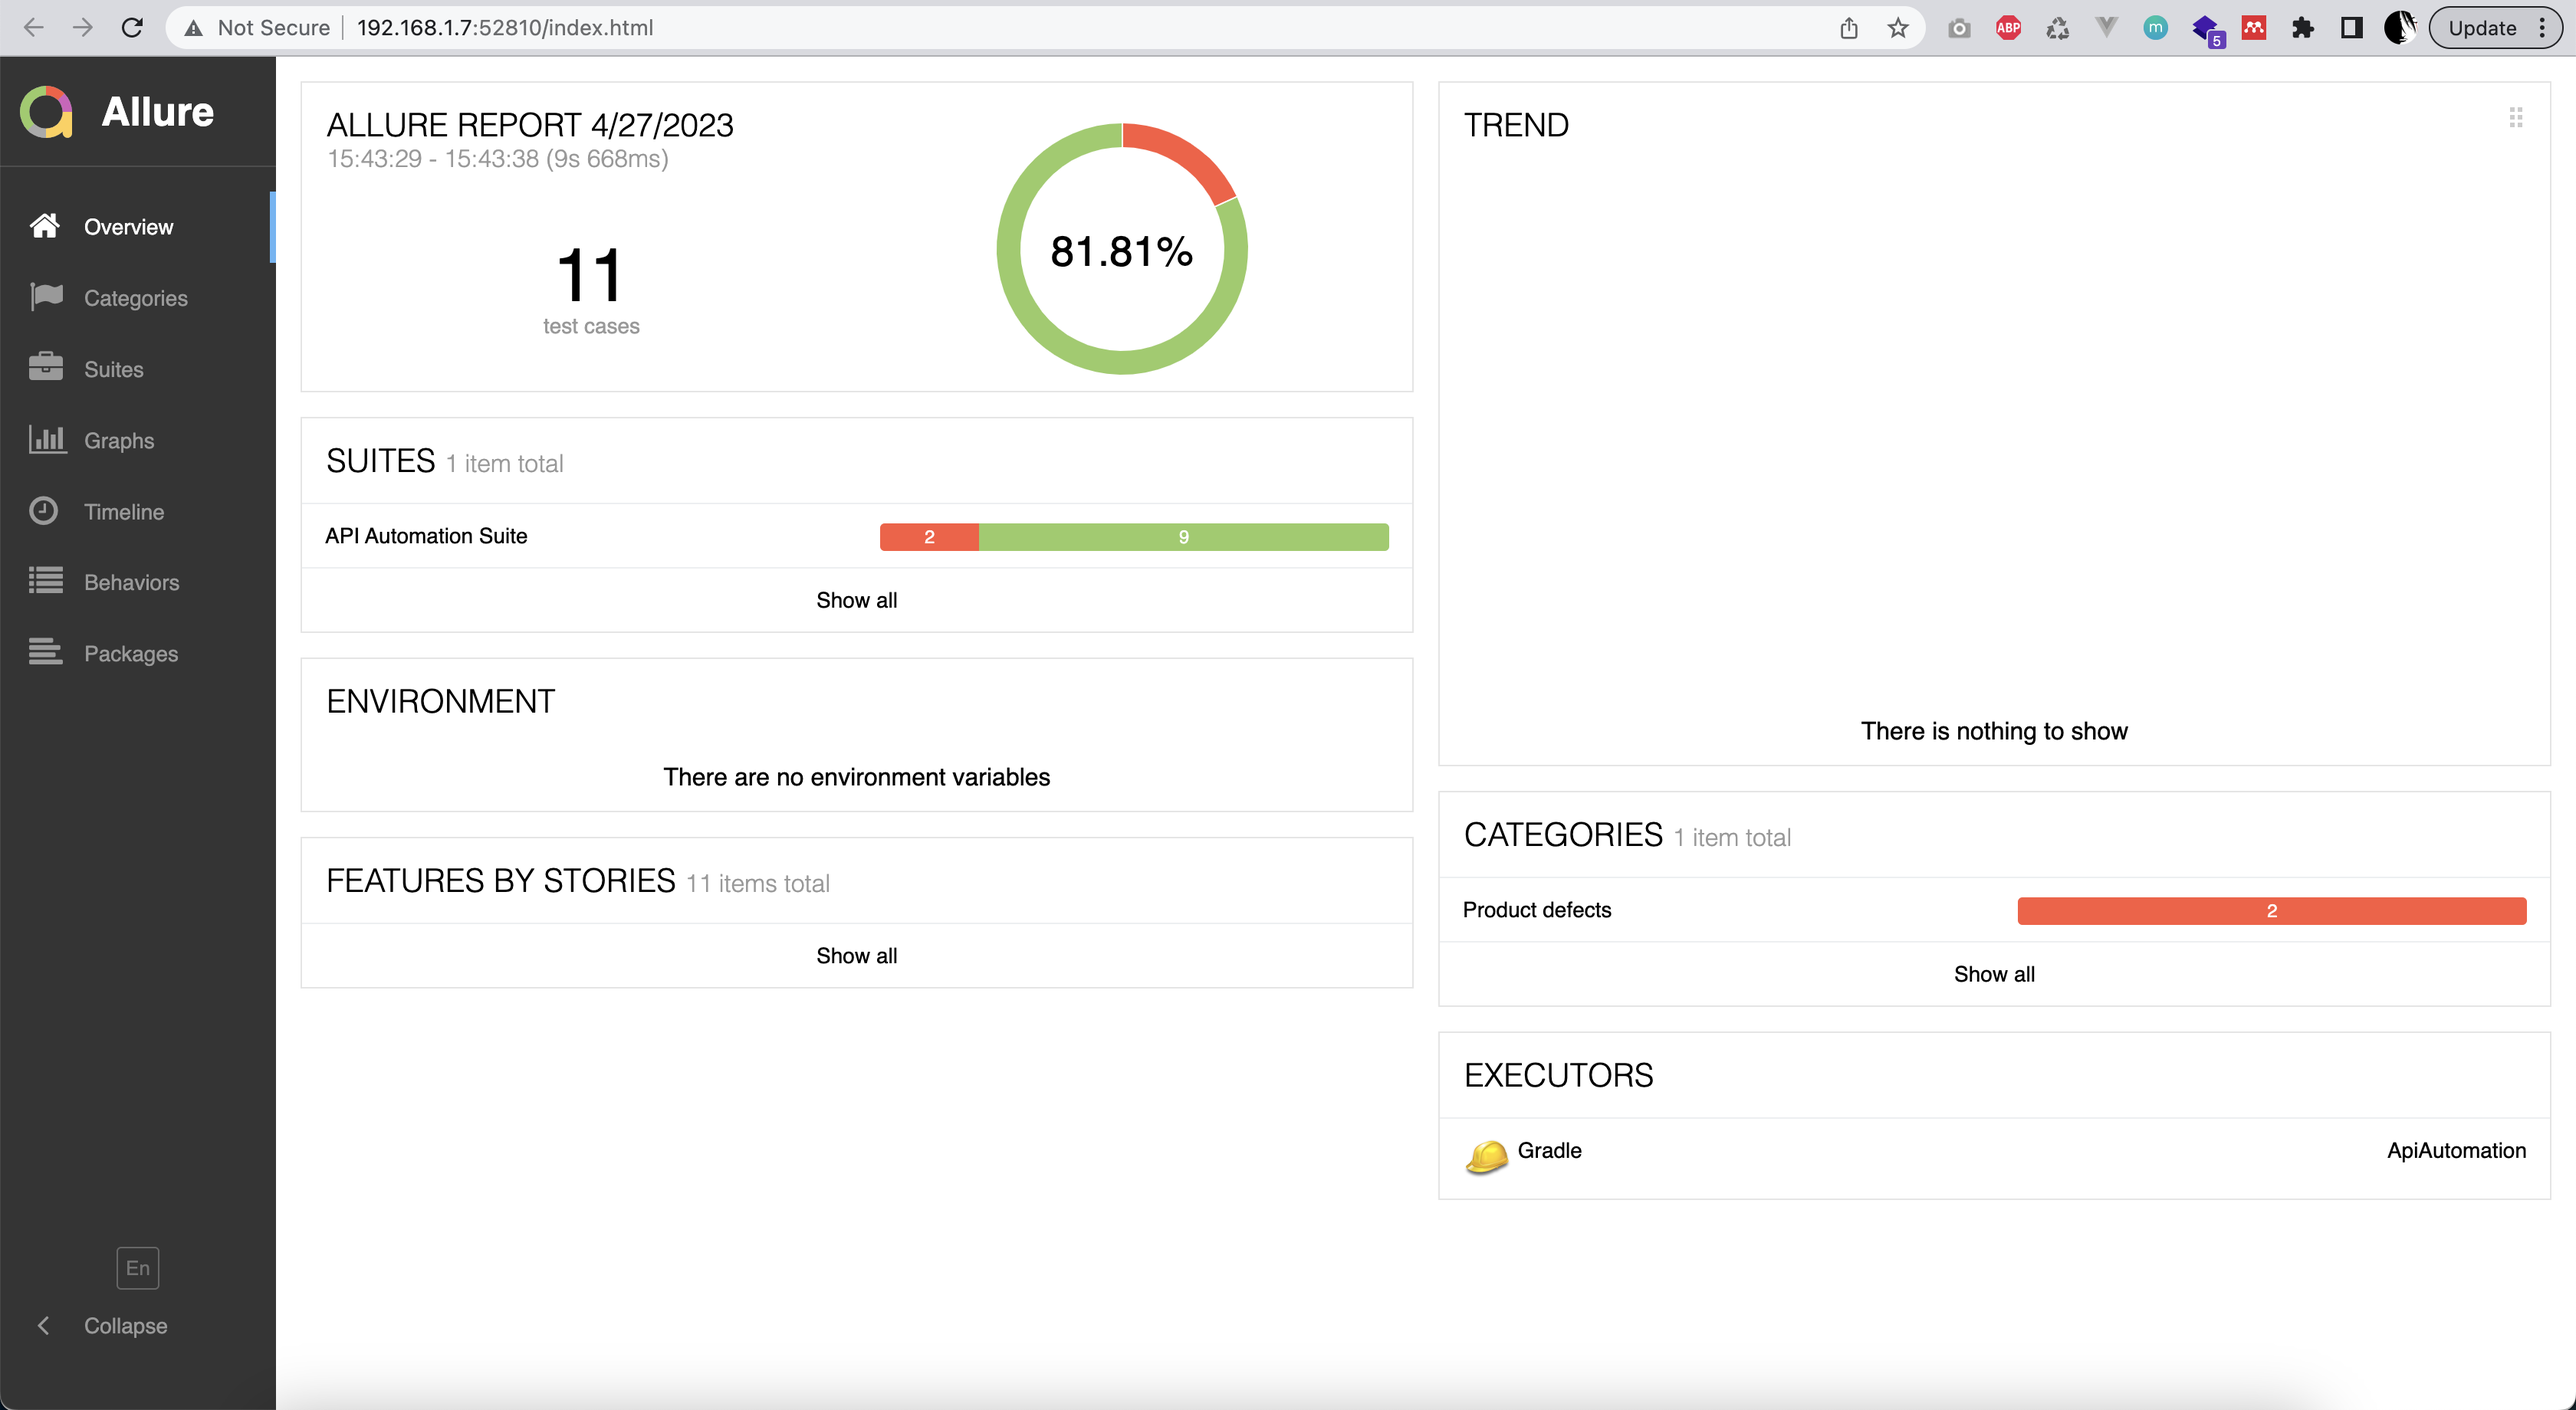
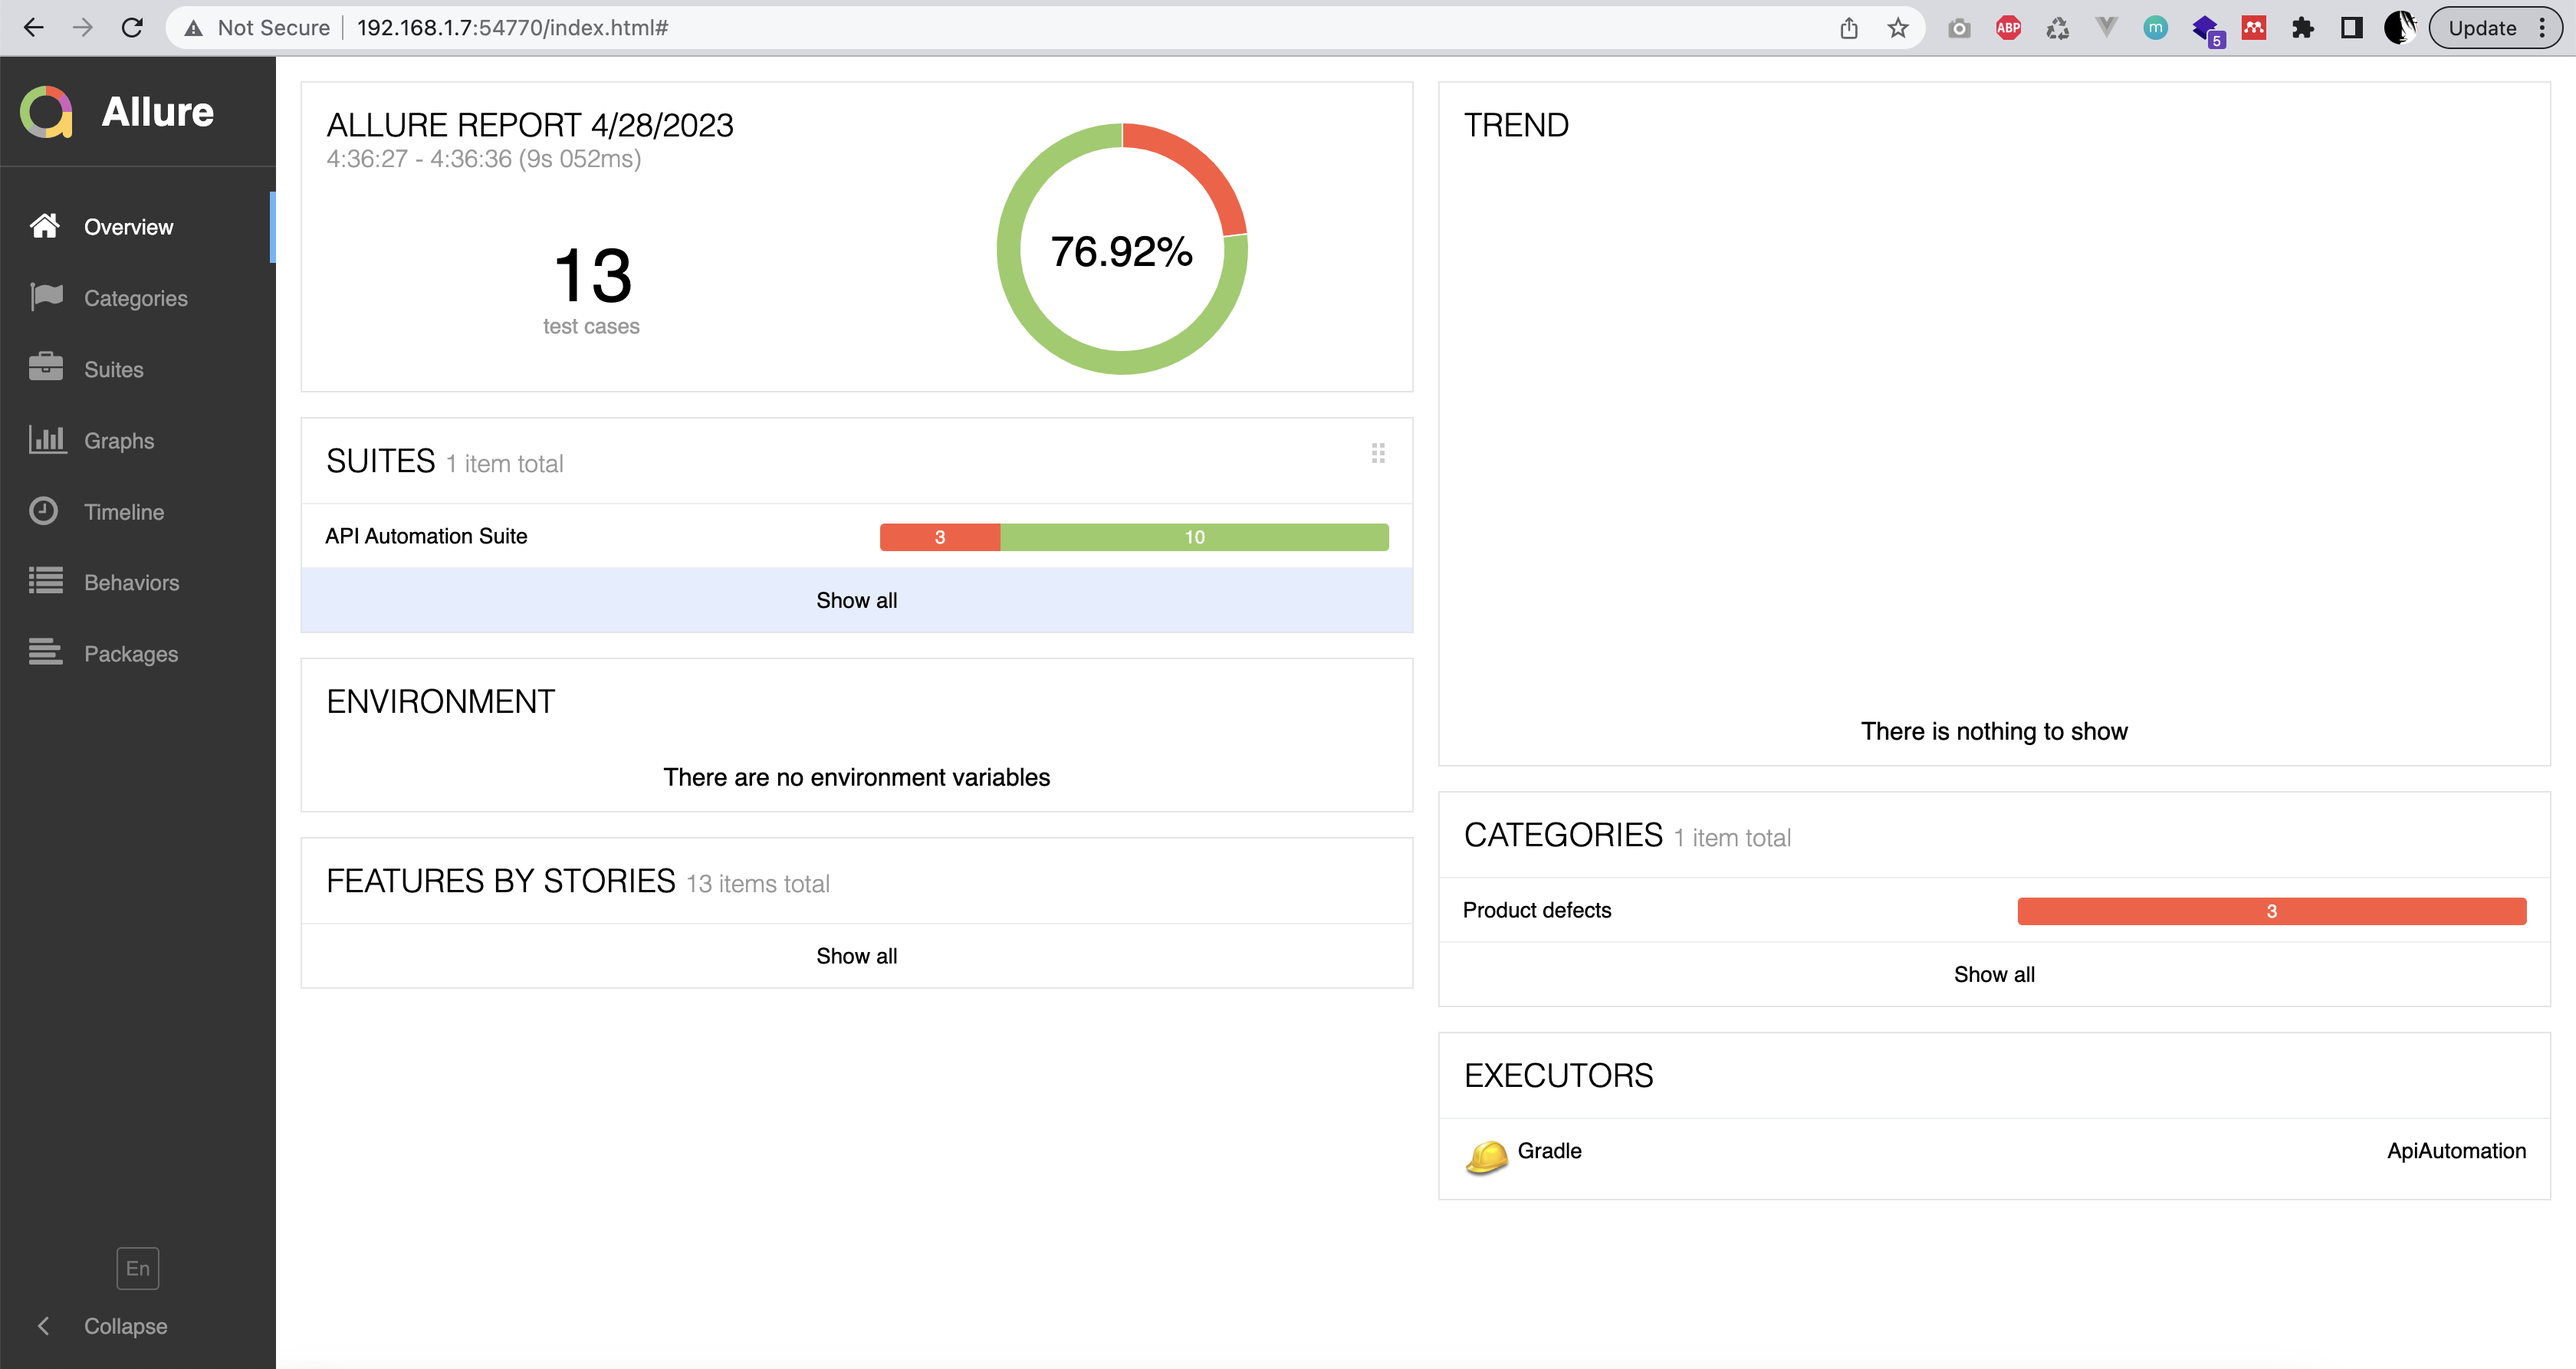
optimized code

diff --git a/src/test/java/apiauto/APITest.java b/src/test/java/apiauto/APITest.java
@@ -12,12 +12,40 @@ import java.io.File;
 import static io.restassured.RestAssured.given;
 
 public class APITest {
+    String userId;
     @BeforeClass
     public void setup() {
         TestUtilities.setBaseURI( "https://reqres.in/api/");
     }
 
-    @Test
+    @Test(priority = 1)
+    public void createNewUserTest() {
+        File createNewUserSchema = TestUtilities.getJsonSchemaFile("createNewUserSchema.json");
+
+        String name = "Muhammad Fajar B";
+        String job = "QA Engineer";
+        JSONObject jsonObject = new JSONObject();
+        jsonObject.put("name", name);
+        jsonObject.put("job", job);
+
+        String response = given()
+                .header("Content-Type", "application/json")
+                .header("Accept", "application/json")
+                .body(jsonObject.toString())
+                .when()
+                .post("users")
+                .then().log().all()
+                .assertThat().statusCode(201)
+                .assertThat().body("name", Matchers.equalTo(name))
+                .assertThat().body("job", Matchers.equalTo(job))
+                .assertThat().body(JsonSchemaValidator.matchesJsonSchema(createNewUserSchema))
+                .extract().asString();
+
+        JSONObject jsonResponse = new JSONObject(response);
+        userId = jsonResponse.getString("id");
+    }
+
+    @Test(priority = 2)
     public void getListUsersTest() {
         File usersSchema = TestUtilities.getJsonSchemaFile("getListUsersSchema.json");
 
@@ -33,9 +61,8 @@ public class APITest {
                 .assertThat().body(JsonSchemaValidator.matchesJsonSchema(usersSchema));
     }
 
-    @Test
+    @Test(priority = 3, dependsOnMethods = "createNewUserTest")
     public void getSingleUserTest() {
-        int userId = 2;
         File singleUserSchema = TestUtilities.getJsonSchemaFile("getSingleUserSchema.json");
         given()
                 .header("Accept", "application/json")
@@ -57,43 +84,16 @@ public class APITest {
                 .assertThat().body(JsonSchemaValidator.matchesJsonSchema(singleUserSchema));
     }
 
-    @Test
-    public void createNewUserTest() {
-        File createNewUserSchema = TestUtilities.getJsonSchemaFile("createNewUserSchema.json");
-
-        String name = "Muhammad Fajar B";
-        String job = "QA Engineer";
-        JSONObject jsonObject = new JSONObject();
-        jsonObject.put("name", name);
-        jsonObject.put("job", job);
-
-        given()
-                .header("Content-Type", "application/json")
-                .header("Accept", "application/json")
-                .body(jsonObject.toString())
-                .when()
-                .post("users")
-                .then().log().all()
-                .assertThat().statusCode(201)
-                .assertThat().body("name", Matchers.equalTo(name))
-                .assertThat().body("job", Matchers.equalTo(job))
-                .assertThat().body(JsonSchemaValidator.matchesJsonSchema(createNewUserSchema));
-    }
-
-    @Test
+    @Test(priority = 4, dependsOnMethods = "createNewUserTest")
     public void testPutUser() {
         File putUserSchema = TestUtilities.getJsonSchemaFile("putUserSchema.json");
-        int userId = 2;
 
-        JsonPath jsonObj = given().when().get("users/" + userId).getBody().jsonPath();
-        String fname = jsonObj.get("data.first_name");
-        String lname = jsonObj.get("data.last_name");
-        String fullname = fname + " " + lname;
+        String name = "Muhammad Fajar B";
         String newJob = "CEO";
 
         // pada PUT seluruh data diupdate
         JSONObject jsonObject = new JSONObject();
-        jsonObject.put("name", fullname);
+        jsonObject.put("name", name);
         jsonObject.put("job", newJob);
 
         given()
@@ -104,15 +104,14 @@ public class APITest {
                 .put("users/" + userId)
                 .then().log().all()
                 .assertThat().statusCode(200)
-                .assertThat().body("name", Matchers.equalTo(fullname))
+                .assertThat().body("name", Matchers.equalTo(name))
                 .assertThat().body("job", Matchers.equalTo(newJob))
                 .assertThat().body(JsonSchemaValidator.matchesJsonSchema(putUserSchema));
     }
 
-    @Test
+    @Test(priority = 5, dependsOnMethods = "createNewUserTest")
     public void testPatchUser() {
         File patchUserSchema = TestUtilities.getJsonSchemaFile("patchUserSchema.json");
-        int userId = 2;
 
         String newJob = "CTO";
 
@@ -132,10 +131,8 @@ public class APITest {
                 .assertThat().body(JsonSchemaValidator.matchesJsonSchema(patchUserSchema));
     }
 
-    @Test
+    @Test(priority = 6, dependsOnMethods = "createNewUserTest")
     public void testDeleteUser() {
-        int userId = 2;
-
         given()
                 .header("Accept", "application/json")
                 .when()
@@ -144,12 +141,11 @@ public class APITest {
                 .assertThat().statusCode(204);
     }
 
-    @Test
-    public void testLoginValid() {
-        File loginValidSchema = TestUtilities.getJsonSchemaFile("loginValidSchema.json");
+    // method for login and register successful
+    String email;
+    String password;
+    private static void testValid(String path, String email, String password, File jsonSchema) {
 
-        String email = "eve.holt@reqres.in";
-        String password = "cityslicka";
         JSONObject jsonObject = new JSONObject();
         jsonObject.put("email", email);
         jsonObject.put("password", password);
@@ -159,61 +155,85 @@ public class APITest {
                 .header("Accept", "application/json")
                 .body(jsonObject.toString())
                 .when()
-                .post("login")
+                .post(path)
                 .then()
                 .log().all()
                 .assertThat().statusCode(200)
                 .assertThat().body("$", Matchers.hasKey("token"))
-                .assertThat().body(JsonSchemaValidator.matchesJsonSchema(loginValidSchema));
+                .assertThat().body(JsonSchemaValidator.matchesJsonSchema(jsonSchema));
     }
 
-    @Test
-    public void testLoginInvalidEmail() {
-        File loginInvalidSchema = TestUtilities.getJsonSchemaFile("loginInvalidSchema.json");
-
-        String email = "wrong.email@reqres.in";
-        String password = "password";
-        JSONObject jsonObject = new JSONObject();
-        jsonObject.put("email", email);
-        jsonObject.put("password", password);
-
+    private static void testInvalid(String path, JSONObject jsonObject, String errorMessage, File jsonSchema) {
         given()
                 .header("Content-Type", "application/json")
                 .header("Accept", "application/json")
                 .body(jsonObject.toString())
                 .when()
-                .post("login")
+                .post(path)
                 .then()
                 .log().all()
                 .assertThat().statusCode(400)
                 .assertThat().body("$", Matchers.hasKey("error"))
-                .assertThat().body(JsonSchemaValidator.matchesJsonSchema(loginInvalidSchema));
+                .assertThat().body("error", Matchers.equalTo(errorMessage))
+                .assertThat().body(JsonSchemaValidator.matchesJsonSchema(jsonSchema));
     }
 
-    @Test
+    @Test(priority = 7)
+    public void testRegisterSuccessful() {
+        email = "eve.holt@reqres.in";
+        password = "cityslicka";
+        File loginValidSchema = TestUtilities.getJsonSchemaFile("registerLoginValidSchema.json");
+
+        testValid("register", email, password, loginValidSchema);
+    }
+
+    @Test(priority = 8, dependsOnMethods = "testRegisterSuccessful")
+    public void testLoginSuccessful() {
+        File loginValidSchema = TestUtilities.getJsonSchemaFile("registerLoginValidSchema.json");
+
+        testValid("login", email, password, loginValidSchema);
+    }
+
+    @Test(priority = 9)
+    public void testRegisterUnsuccessful() {
+        File loginInvalidSchema = TestUtilities.getJsonSchemaFile("registerLoginInvalidSchema.json");
+
+        JSONObject jsonObject = new JSONObject();
+        jsonObject.put("email", email);
+
+        String errorMessage = "Missing password";
+
+        testInvalid("register", jsonObject, errorMessage, loginInvalidSchema);
+    }
+
+    @Test(priority = 10)
     public void testLoginInvalidPassword() {
-        File loginInvalidSchema = TestUtilities.getJsonSchemaFile("loginInvalidSchema.json");
+        File registerLoginInvalidSchema = TestUtilities.getJsonSchemaFile("registerLoginInvalidSchema.json");
 
-        String email = "peter@klaven";
         JSONObject jsonObject = new JSONObject();
-        jsonObject.put("email", email);
+        jsonObject.put("email", "eve.holt@reqres.in");
 
-        given()
-                .header("Content-Type", "application/json")
-                .header("Accept", "application/json")
-                .body(jsonObject.toString())
-                .when()
-                .post("login")
-                .then()
-                .log().all()
-                .assertThat().statusCode(400)
-                .assertThat().body("$", Matchers.hasKey("error"))
-                .assertThat().body(JsonSchemaValidator.matchesJsonSchema(loginInvalidSchema));
+        String errorMessage = "Missing password";
+
+        testInvalid("login", jsonObject, errorMessage, registerLoginInvalidSchema);
+    }
+
+    @Test(priority = 11)
+    public void testLoginInvalidEmail() {
+        File registerLoginInvalidSchema = TestUtilities.getJsonSchemaFile("registerLoginInvalidSchema.json");
+
+        JSONObject jsonObject = new JSONObject();
+        jsonObject.put("email", "wrong.email@reqres.in");
+        jsonObject.put("password", "password");
+
+        String errorMessage = "user not found";
+
+        testInvalid("login", jsonObject, errorMessage, registerLoginInvalidSchema);
     }
 
     /* pada test boundaries ini yang diharapkan adalah seharusnya response api
        memberikan status code 400 jika batasan yang diset tidak sesuai */
-    @Test
+    @Test(priority = 12)
     public void testBoundaryMinPage() {
         String page = "-1";
         given()
@@ -225,7 +245,7 @@ public class APITest {
                 .assertThat().statusCode(400);
     }
 
-    @Test
+    @Test(priority = 13)
     public void testBoundaryMaxPage() {
         String page = "13";
         given()

diff --git a/README.md b/README.md
@@ -3,8 +3,6 @@
 Objective task pada project ini adalah untuk melakukan automation task pada api https://reqres.in.
 Framework testing yang digunakan adalah TestNG, HTTP client library menggunakan Rest-Assured, dan report menggunakan Allure.
 
-Terdapat sebanyak 11 test yang dilakukan. Hasil report menggunakan Allure adalah sebagai berikut:
+Terdapat sebanyak 13 test yang dilakukan. Hasil report menggunakan Allure adalah sebagai berikut:
 ![report](screenshot1.png)
 ![report](screenshot2.png)
-
-Seluruh pengujian endpoint pada method GET, POST, PUT, PATCH, dan DELETE termasuk positive dan negative test berhasil dilakukan kecuali pada boundaries test di mana yang diuji adalah batasan minimal dan maksimal halaman. Hasil yang diharapkan adalah api mampu memberikan status code 400 jika query parameter page yang diberikan tidak sesuai dengan batasan dari data yang tersedia, namun api tetap memberikan status code 200 sehingga pengujian endpoint pada test boundaries tidak berhasil.
